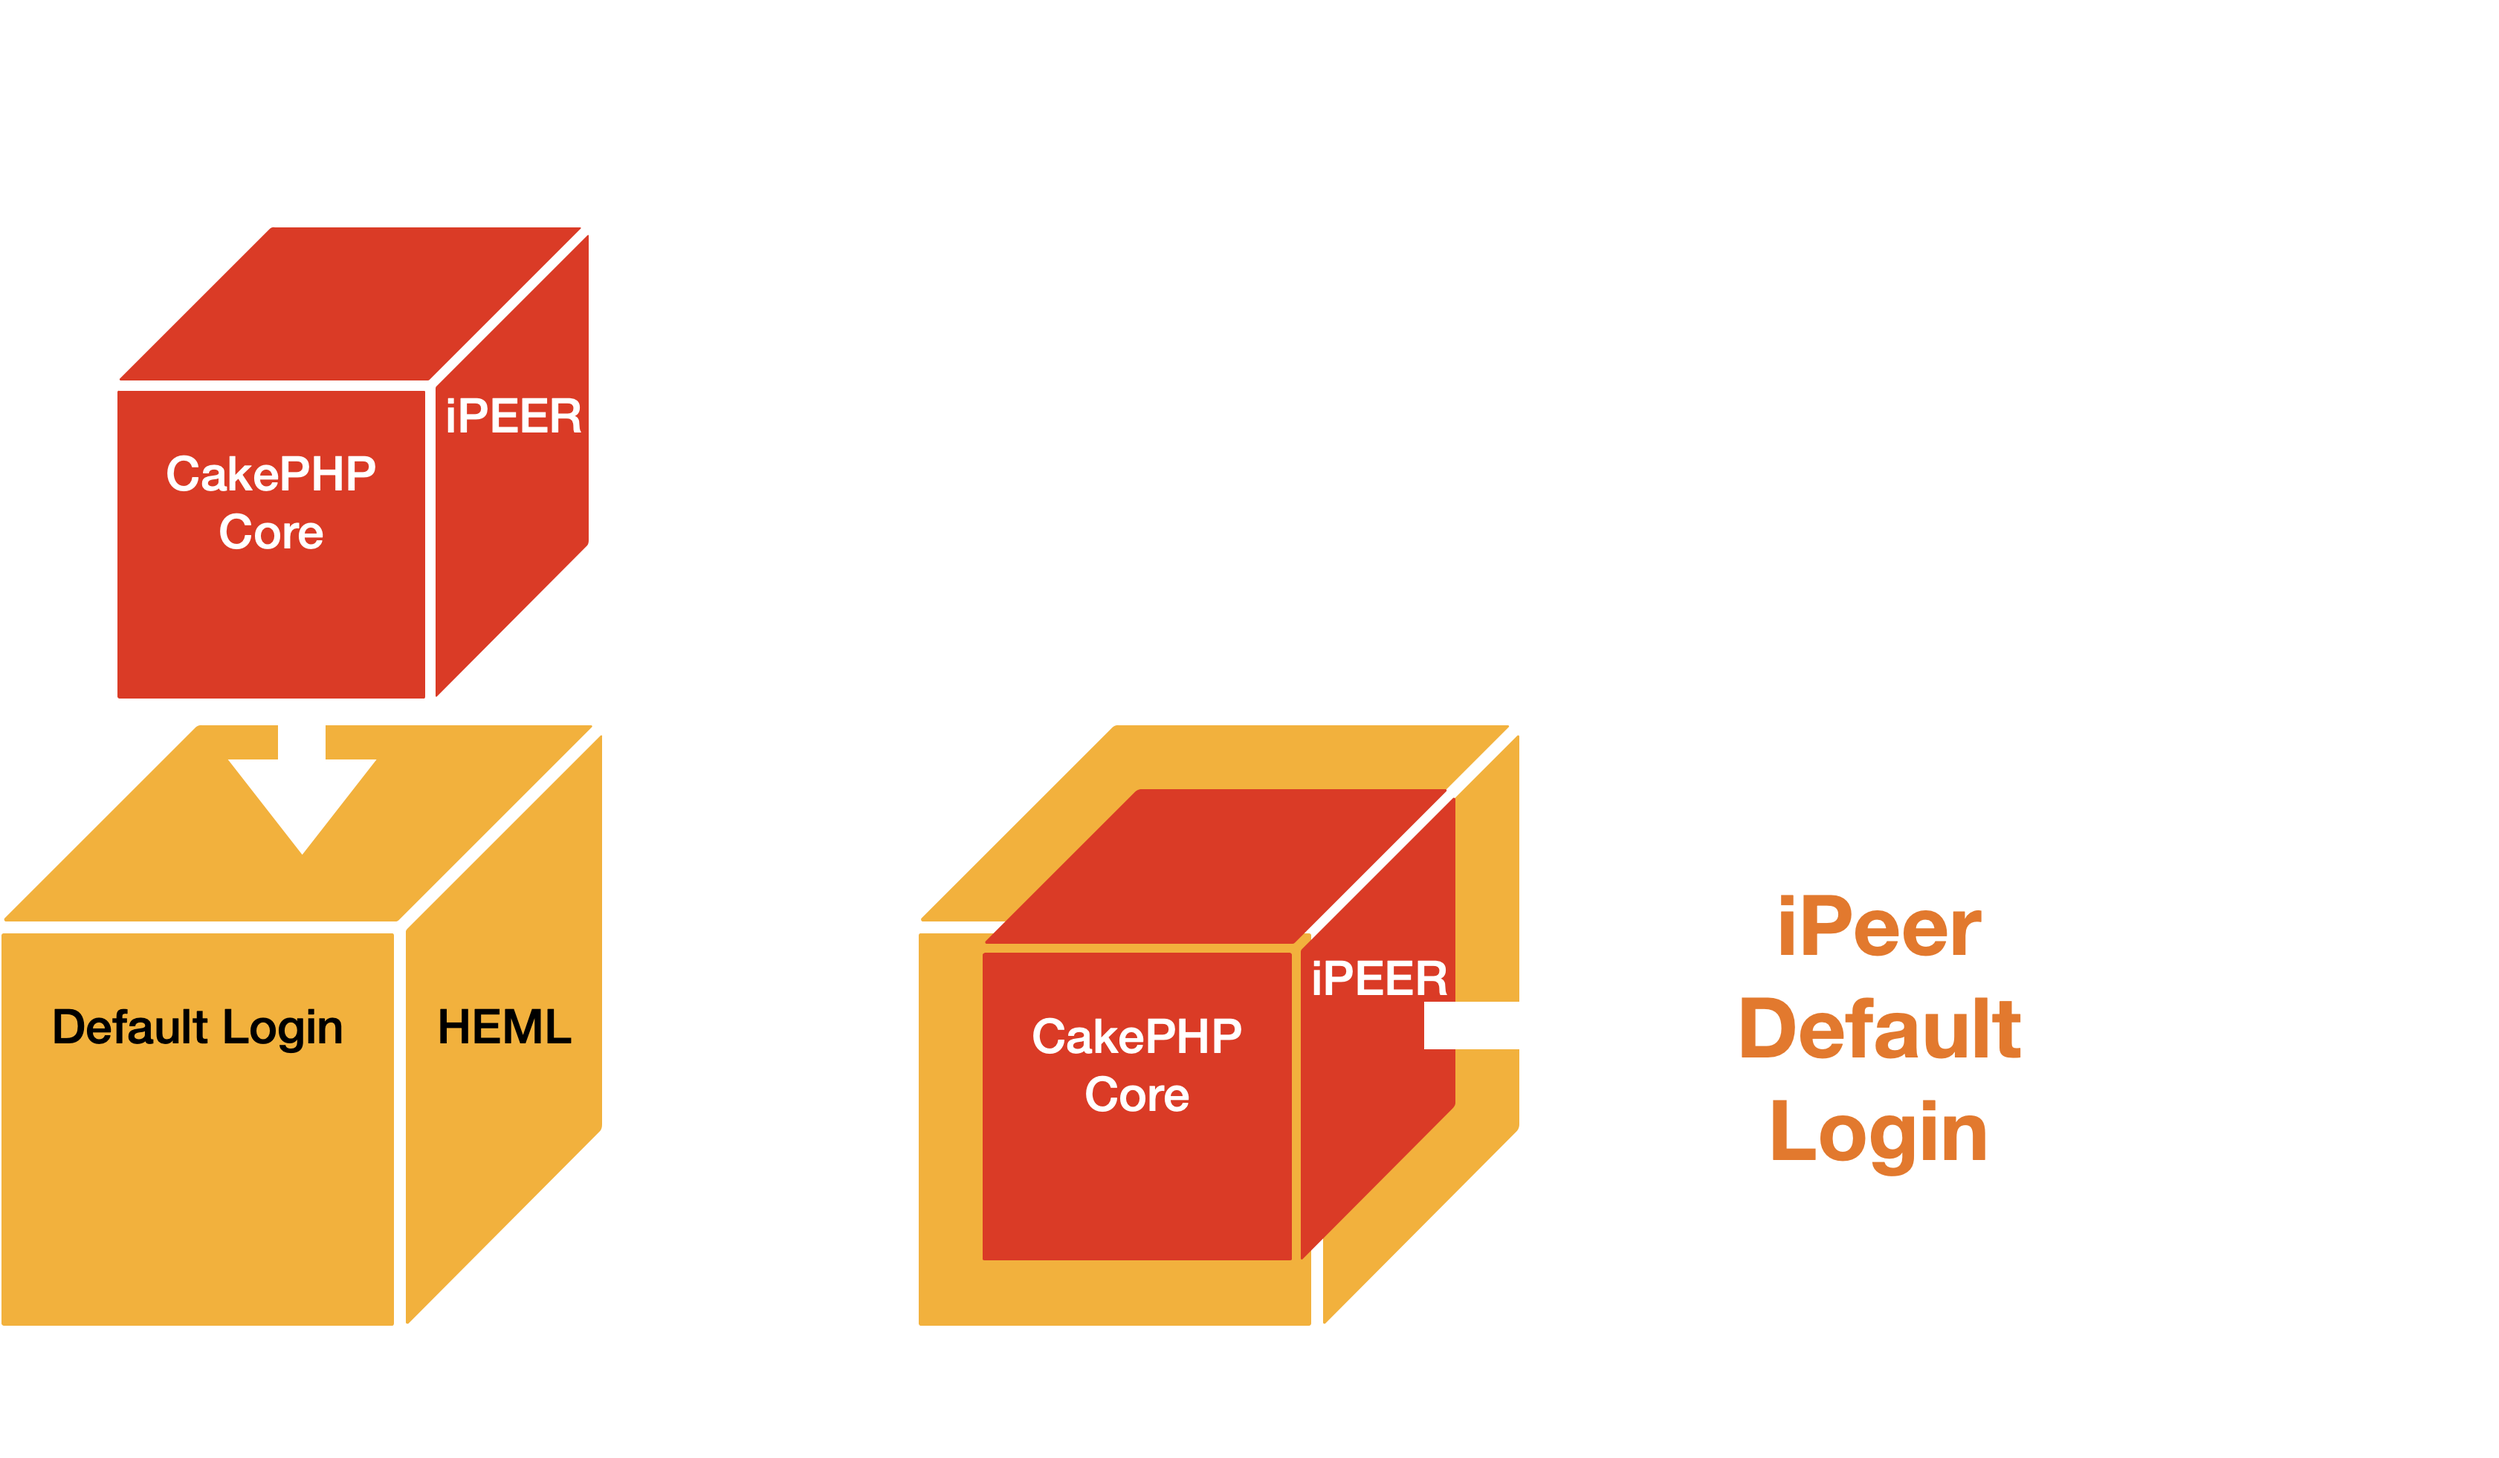
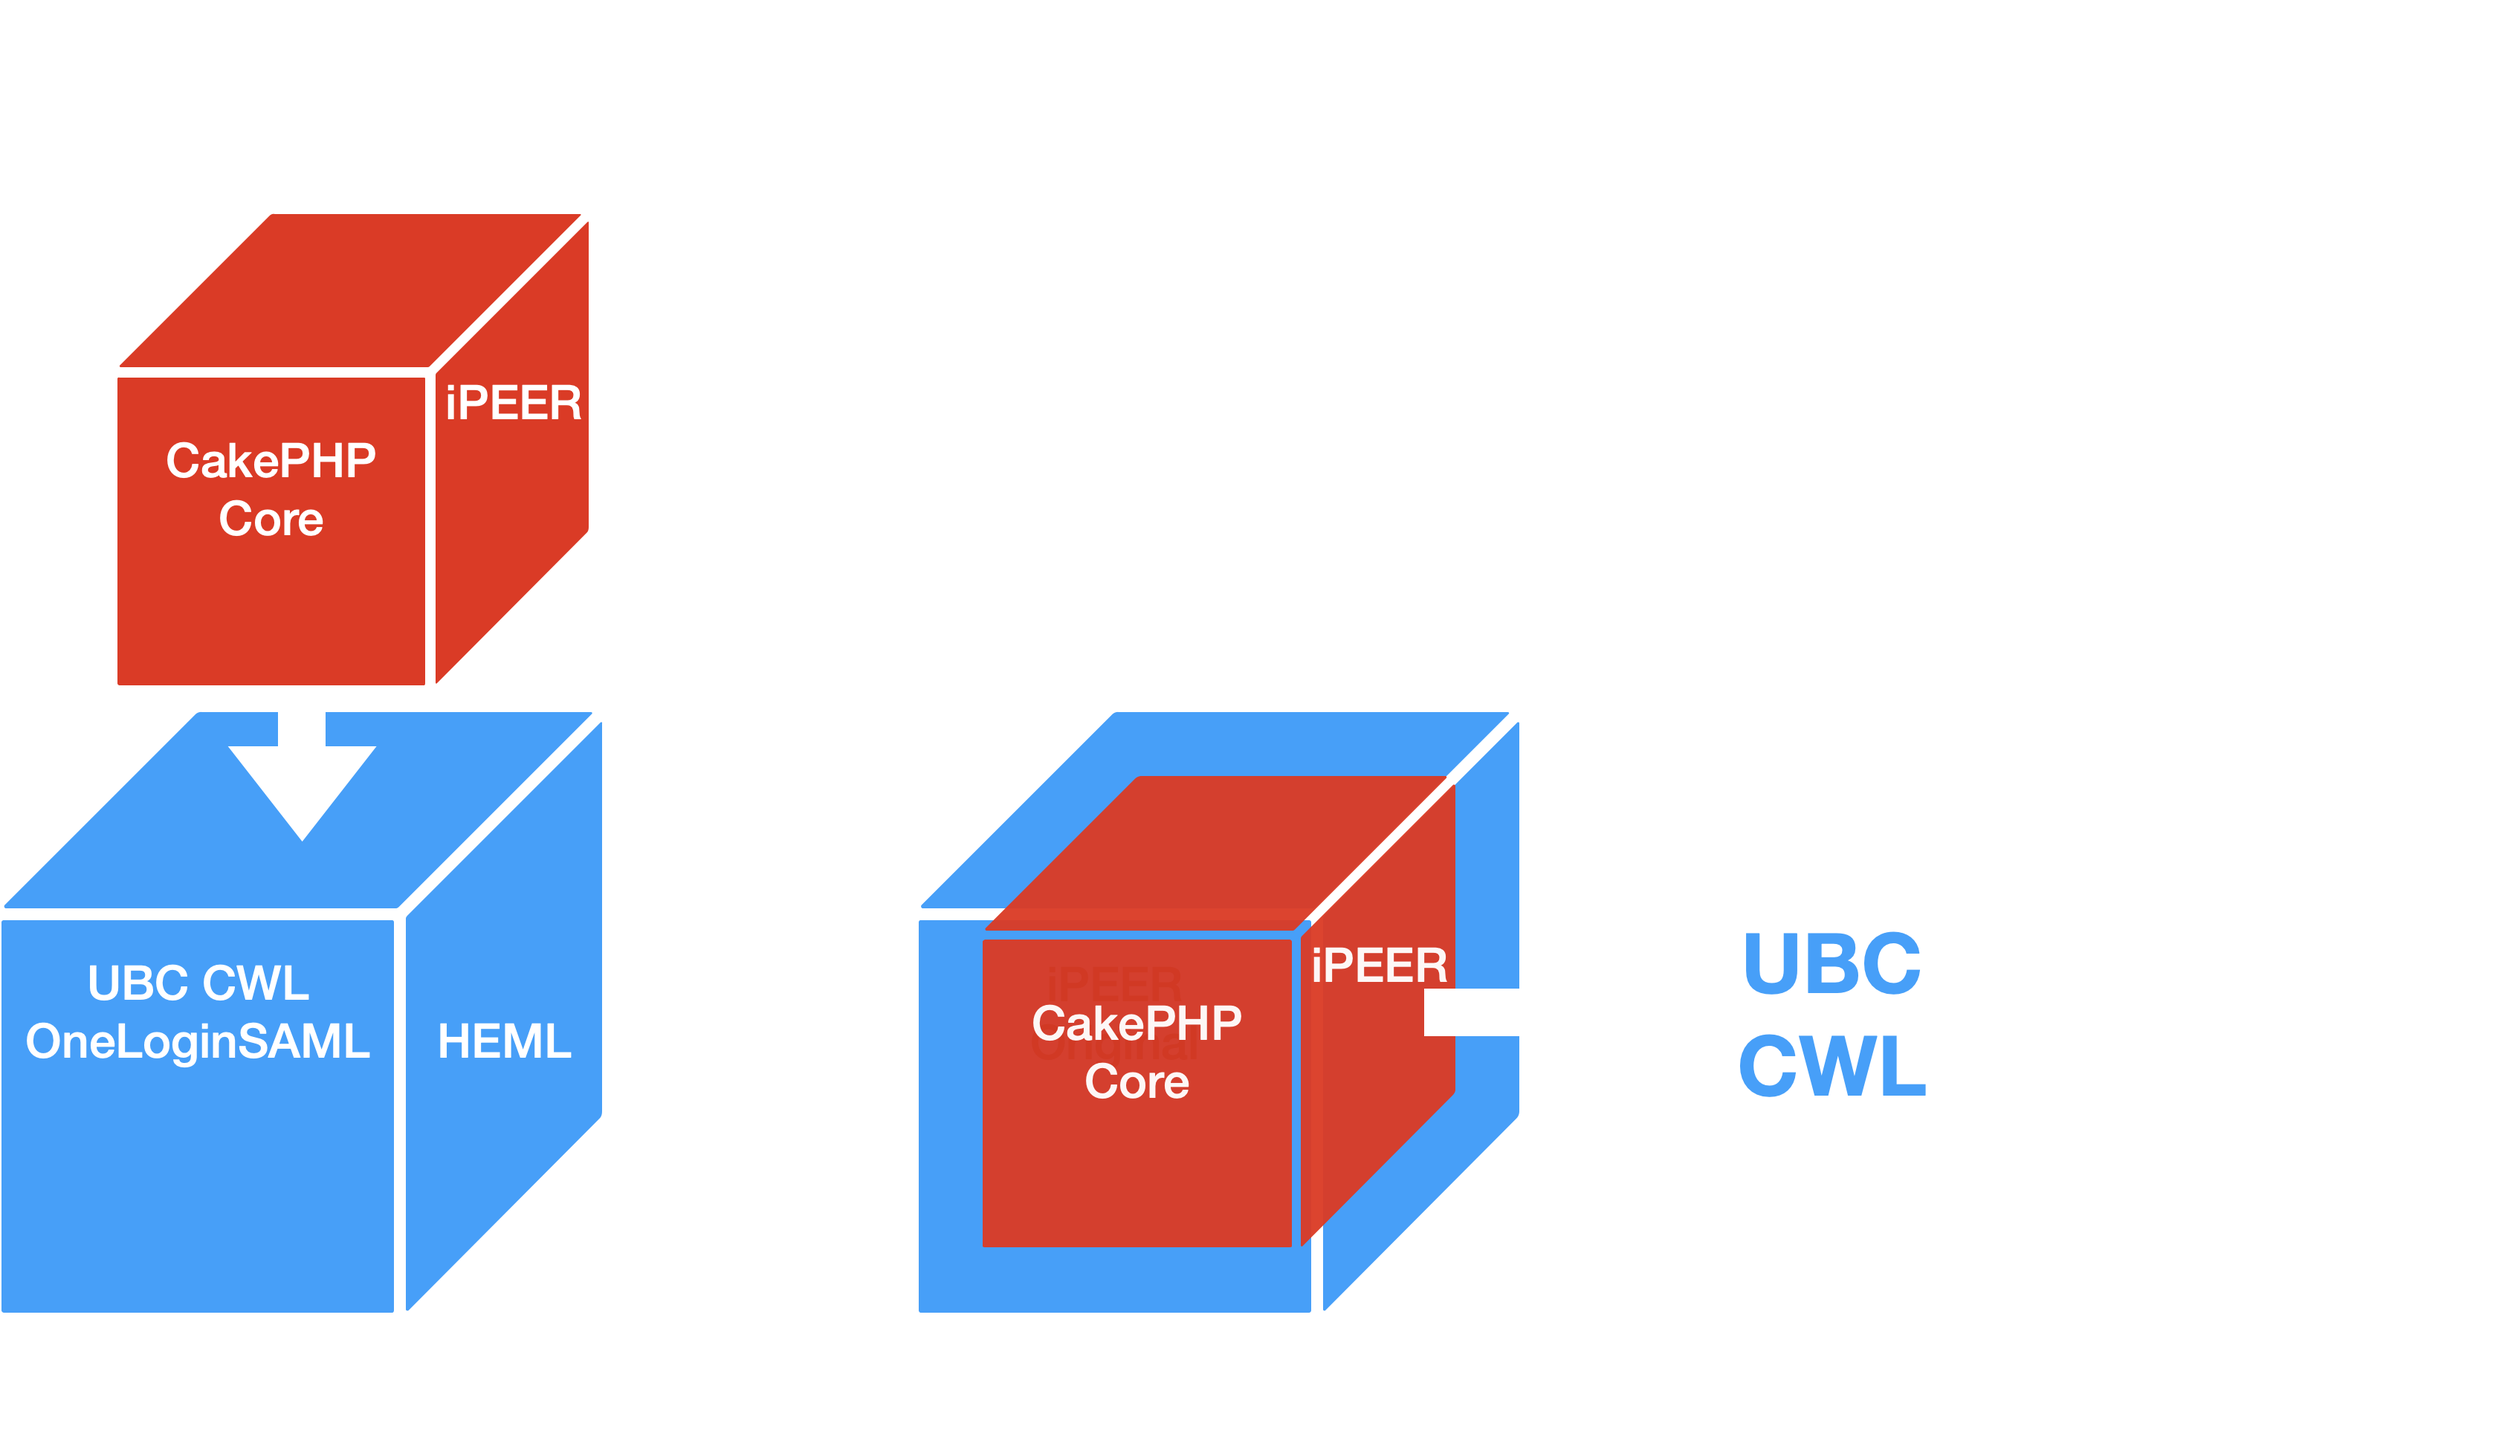
update ipeer chart OneLogin SAML README

diff --git a/ipeer-ubc-cwl-login/README.md b/ipeer-ubc-cwl-login/README.md
@@ -6,13 +6,17 @@ This method relies on local database authentication, where users log in using a 
 
 iPeer CakePHP's ACL system using AROs and ACOs was a traditional method of handling access control before modern auth methods like SAML, OAuth2 became common.
 
-![alt text](image-1.png)
+
+![alt text](image.png)
+
 
 ### - The Auth Upgrade 
 
 A Helm-powered upgrade for the iPeer authentication system that integrates UBC CWL and SAML-based UBC Identity Providers (IdP). This solution offers customizable Helm charts, values, and deployment templates, enabling UBC CWL login without modifying the original iPeer CakePHP codebase or altering its core functionality.
 
-![alt text](image-2.png)
+
+![alt text](image-1.png)
+
 
 It also provides the flexibility to switch between the default login behavior and UBC CWL login—and vice versa—simply by adjusting the Helm chart configuration, without requiring changes to the application itself.
 
@@ -34,5 +38,5 @@ This project provides:
 - **⚠ IMPORTANT:** Zero modifications are made to the original iPeer CakePHP source code or its built-in Access Control List (ACL) system, which uses AROs (Access Request Objects) and ACOs (Access Control Objects) to manage permissions and access control.
 
 
-![alt text](image-2.png)
+![alt text](image-1.png)
 
